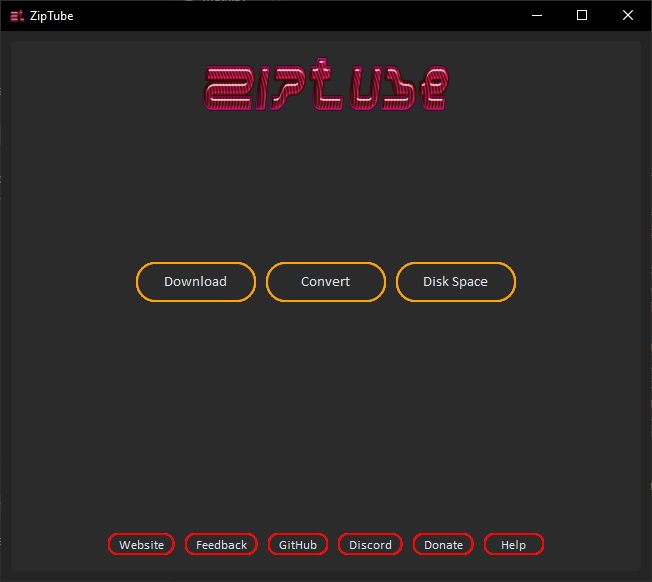
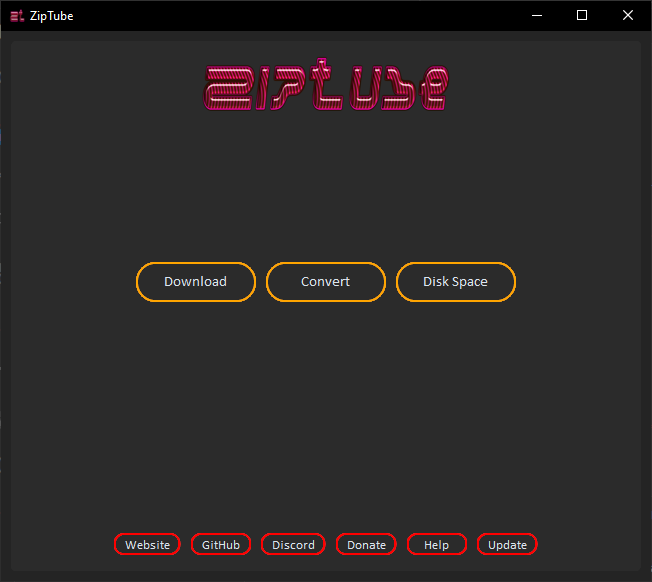
rename functions to make things clearer remove doubled up functions change image to latest update

Changed region(s): [[0.1534, 0.8969, 0.8282, 0.9588]]

diff --git a/ziptube/main.py b/ziptube/main.py
@@ -94,7 +94,7 @@ def delayed_update():
 # Function that runs the update button on the main screen
 def latest_version():
     global latest_version_frame, latest_version_link, latest_version_label
-    hide_all_buttons()
+    hide_start_menu_frame()
     hide_footer_frame()
     latest_version_label.pack(padx=10, pady=10)
     latest_version_frame.pack(padx=10, pady=100)
@@ -221,8 +221,8 @@ def on_progress(stream, chunk, bytes_remaining):
         bytes_downloaded_prev = bytes_downloaded
         progress_label.configure(
             text="{} / {} Download Speed: {:.2f} MB/sec".format(
-                bytes_to_nearest_measurement(int(bytes_downloaded)),
-                bytes_to_nearest_measurement(int(total_size)),
+                bytes_conversion(int(bytes_downloaded)),
+                bytes_conversion(int(total_size)),
                 download_speed,
             )
         )
@@ -264,23 +264,22 @@ def get_cpu_info():
 
 # Function to run both disk and cpu info at the same time and to open the window #
 def check_disk_space():
-    ''' Icon and logo location on system '''
     disks_app_name = "ZipTube - Disk Space"
-    ''' Create a disks_app window '''
     disks_app = ctk.CTk()
+
     ctk.set_appearance_mode("dark")
     ctk.set_default_color_theme(custom_theme)
-    ''' Title of the window '''
+
     disks_app.title(disks_app_name)
-    ''' Check if the icon file exists '''
+
     if os.path.exists(icon):
         disks_app.iconbitmap(icon)
     else:
         print(f"Icon file not found: {icon}")
-    ''' Create a frame to hold the content '''
+
     disks_frame = ctk.CTkFrame(disks_app)
     disks_frame.pack(fill=ctk.BOTH, expand=True, padx=10, pady=10)
-    ''' Create the labels '''
+
     status_label = ctk.CTkLabel(disks_frame, font=("calibri", 18, "normal"), text="")
     status_label.pack(padx=20, pady=10)
     # Gather information to display
@@ -303,34 +302,41 @@ def check_disk_space():
     status_label.configure(text=info_text)
     disks_app.mainloop()
 
+def show_help_menu_buttons():
+    help_menu_frame.pack(padx=10, pady=130)
+    downloader_help_button.grid(row=0, column=0, padx=5, pady=5)
+    converters_help_button.grid(row=0, column=1, padx=5, pady=5)
+    disk_info_help_button.grid(row=0, column=2, padx=5, pady=5)
+
 # Function to go back to the help menu
-def reset_to_menu():
+def back_to_help_menu():
     info_label_frame.pack_forget()
     info_label.pack_forget()
     back_menu_frame.pack_forget()
     back_button.pack_forget()
-    help_menu_frame.pack(padx=10, pady=130)
-    downloader_help_button.grid(row=0, column=0, padx=5, pady=5)
-    converters_help_button.grid(row=0, column=1, padx=5, pady=5)
-    disk_info_help_button.grid(row=0, column=2, padx=5, pady=5)
+    show_help_menu_buttons()
     main_menu_button()
 
 # Function to open the help window #
 def open_help_window():
-    hide_all_buttons()
+    hide_start_menu_frame()
     hide_footer_frame()
-    help_menu_frame.pack(padx=10, pady=130)
-    downloader_help_button.grid(row=0, column=0, padx=5, pady=5)
-    converters_help_button.grid(row=0, column=1, padx=5, pady=5)
-    disk_info_help_button.grid(row=0, column=2, padx=5, pady=5)
+    show_help_menu_buttons()
     main_menu_button()
+
+def show_back_menu_button():
+    back_menu_frame.pack(side='bottom', pady=10)
+    back_button.pack(pady=5)
+
+def show_info_labels():
+    info_label_frame.pack(padx=20, pady=50)
+    info_label.pack(padx=20, pady=10)
 
 # Function to display YouTube downloader help
 def downloader_help():
     help_menu_frame.pack_forget()
     back_to_menu_frame.pack_forget()
-    info_label_frame.pack(padx=20, pady=50)
-    info_label.pack(padx=20, pady=10)
+    show_info_labels()
     info_text = (
         "How to use the download function:\n\n"
         "Here you can download almost any video from YouTube.\n"
@@ -342,15 +348,13 @@ def downloader_help():
         "This is useful when downloading music files that you like.\n"
     )
     info_label.configure(text=info_text)
-    back_menu_frame.pack(side='bottom', pady=10)
-    back_button.pack(pady=5)
+    show_back_menu_button()
 
 # Function to display converters help
 def converters_help():
     help_menu_frame.pack_forget()
     back_to_menu_frame.pack_forget()
-    info_label_frame.pack(padx=20, pady=50)
-    info_label.pack(padx=20, pady=10)
+    show_info_labels()
     info_text = (
         "\nHow to use the convertors:\n\n"
         "Here you can convert almost any audio file to almost any other audio file.\n"
@@ -358,15 +362,13 @@ def converters_help():
         "All files converted will be done in the best available bitrate.\n"
     )
     info_label.configure(text=info_text)
-    back_menu_frame.pack(side='bottom', pady=10)
-    back_button.pack(pady=5)
+    show_back_menu_button()
 
 # Function to display disk space help
 def disk_space_help():
     help_menu_frame.pack_forget()
     back_to_menu_frame.pack_forget()
-    info_label_frame.pack(padx=20, pady=50)
-    info_label.pack(padx=20, pady=10)
+    show_info_labels()
     info_text = (
         "\nHow to use the disk space utility:\n\n"
         "This option will give you basic information about your device.\n"
@@ -374,12 +376,11 @@ def disk_space_help():
         "and what cpu / processor is currently installed on your machine.\n"
     )
     info_label.configure(text=info_text)
-    back_menu_frame.pack(side='bottom', pady=10)
-    back_button.pack(pady=5)
+    show_back_menu_button()
 
 # Function for donation window #
 def open_donation_window():
-    hide_all_buttons()
+    hide_start_menu_frame()
     hide_footer_frame()
     donation_frame.pack(padx=20, pady=50)
     donation_label.pack(padx=20, pady=10)
@@ -559,7 +560,7 @@ def hide_labels():
     progress_label.pack_forget()
     resolutions_button.pack_forget()
     download_button.configure(state="normal")
-    download_button.configure(text="Download Another Video", command=start_app_again)
+    download_button.configure(text="Download Another Video", command=download_another_video)
     download_audio_button.configure(state="normal")
     download_audio_button.configure(text="Download Another Song", command=download_audio_only)
     resolutions_frame.pack_forget()
@@ -615,7 +616,7 @@ def load_resolutions():
         main_menu_button()
 
 # Function to start a new download #
-def start_app_again():
+def download_another_video():
     global resolutions_var
     resolutions_var.set("")
     download_button.pack_forget()
@@ -627,7 +628,7 @@ def start_app_again():
     main_menu_button()
 
 # Calculate the nearest measurement for bytes #
-def bytes_to_nearest_measurement(bytes):
+def bytes_conversion(bytes):
     for unit in ["Bytes", "KB", "MB", "GB", "TB", "PB"]:
         if bytes < 1024:
             return f"{bytes:.2f} {unit}"
@@ -669,7 +670,7 @@ def download_audio_only():
 
 # Function to show all the available convertors #
 def show_converters():
-    hide_all_buttons()
+    hide_start_menu_frame()
     hide_footer_frame()
     convertors_frame.pack(padx=10, pady=85)
     # want_to_convert_to_audio_button.grid(row=0, column=1, padx=5, pady=5)
@@ -689,27 +690,24 @@ def show_converters():
 
 # Function to show all the available convertors #
 def hide_converters():
-    hide_all_buttons()
+    hide_start_menu_frame()
     hide_footer_frame()
     convertors_frame.pack_forget()
 
 # Function to show the download buttons available #
 def show_youtube_downloader():
-    hide_all_buttons()
+    hide_start_menu_frame()
     hide_footer_frame()
     youtube_menu_frame.pack(padx=10, pady=130)
     want_to_download_button.grid(row=0, column=0, padx=5, pady=5)
     want_to_download_audio_button.grid(row=0, column=1, padx=5, pady=5)
     main_menu_button()
 
-def hide_all_buttons():
+def hide_start_menu_frame():
     start_menu_frame.pack_forget()
 
-def hide_footer_frame():
-    footer_frame.pack_forget()
-
 def back_main_menu_button():
-    hide_all_buttons()
+    hide_start_menu_frame()
     hide_footer_frame()
     back_to_menu_frame.pack_forget()
     convertors_frame.pack_forget()
@@ -742,8 +740,6 @@ def main_menu_button():
 # Function to hide buttons at bottom of screen #
 def hide_footer_frame():
     footer_frame.pack_forget()
-    website_button.pack_forget()
-    donation_button.pack_forget()
 
 # Create a app window #
 app = ctk.CTk()
@@ -790,17 +786,17 @@ button_specifics = {
     }
 }
 
-def create_button_config(button_type):
+def button_configurations(button_type):
     if button_type not in button_specifics:
         raise ValueError("Invalid button type")
     config = base_config.copy()
     config.update(button_specifics[button_type])
     return config
 
-main_button_config = create_button_config('main')
-convertors_button_config = create_button_config('convertors')
-footer_button_config = create_button_config('footer')
-start_menu_button_config = create_button_config('start_menu')
+main_button_config = button_configurations('main')
+convertors_button_config = button_configurations('convertors')
+footer_button_config = button_configurations('footer')
+start_menu_button_config = button_configurations('start_menu')
 
 # Define global variables to track download progress #
 start_time = time.time()
@@ -852,7 +848,7 @@ help_menu_frame = ctk.CTkFrame(main_frame)
 back_menu_frame = ctk.CTkFrame(main_frame)
 info_label_frame = ctk.CTkFrame(main_frame)
 info_label = ctk.CTkLabel(info_label_frame, font=("calibri", 17, "normal"), text="")
-back_button = ctk.CTkButton(back_menu_frame, text="Back", command=reset_to_menu, **main_button_config)
+back_button = ctk.CTkButton(back_menu_frame, text="Back", command=back_to_help_menu, **main_button_config)
 downloader_help_button = ctk.CTkButton(help_menu_frame, text="Download Help", command=downloader_help, font=("calibri", 15, "normal"), height=40, width=120, corner_radius=33, border_color="green")
 converters_help_button = ctk.CTkButton(help_menu_frame, text="Convertor Help", command=converters_help, font=("calibri", 15, "normal"), height=40, width=120, corner_radius=33, border_color="green")
 disk_info_help_button = ctk.CTkButton(help_menu_frame, text="Disk Space Help", command=disk_space_help, font=("calibri", 15, "normal"), height=40, width=120, corner_radius=33, border_color="green")
